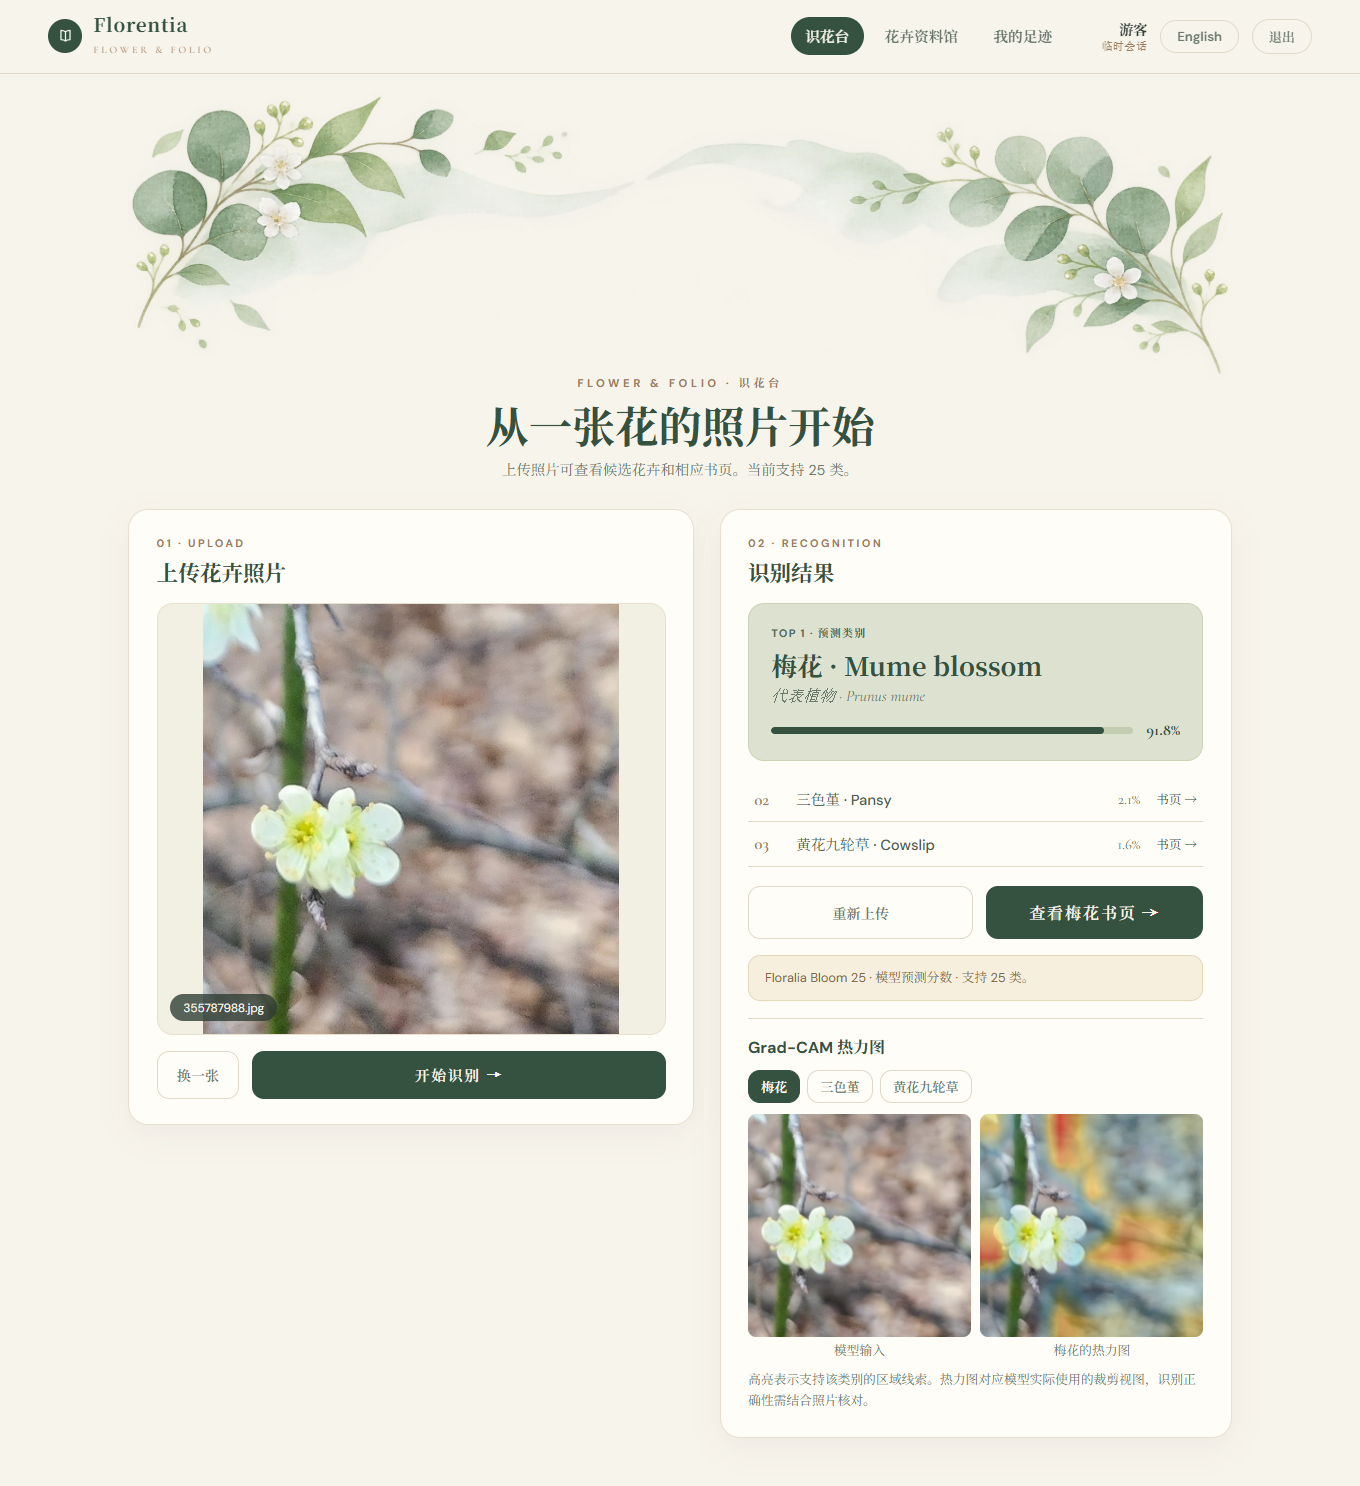
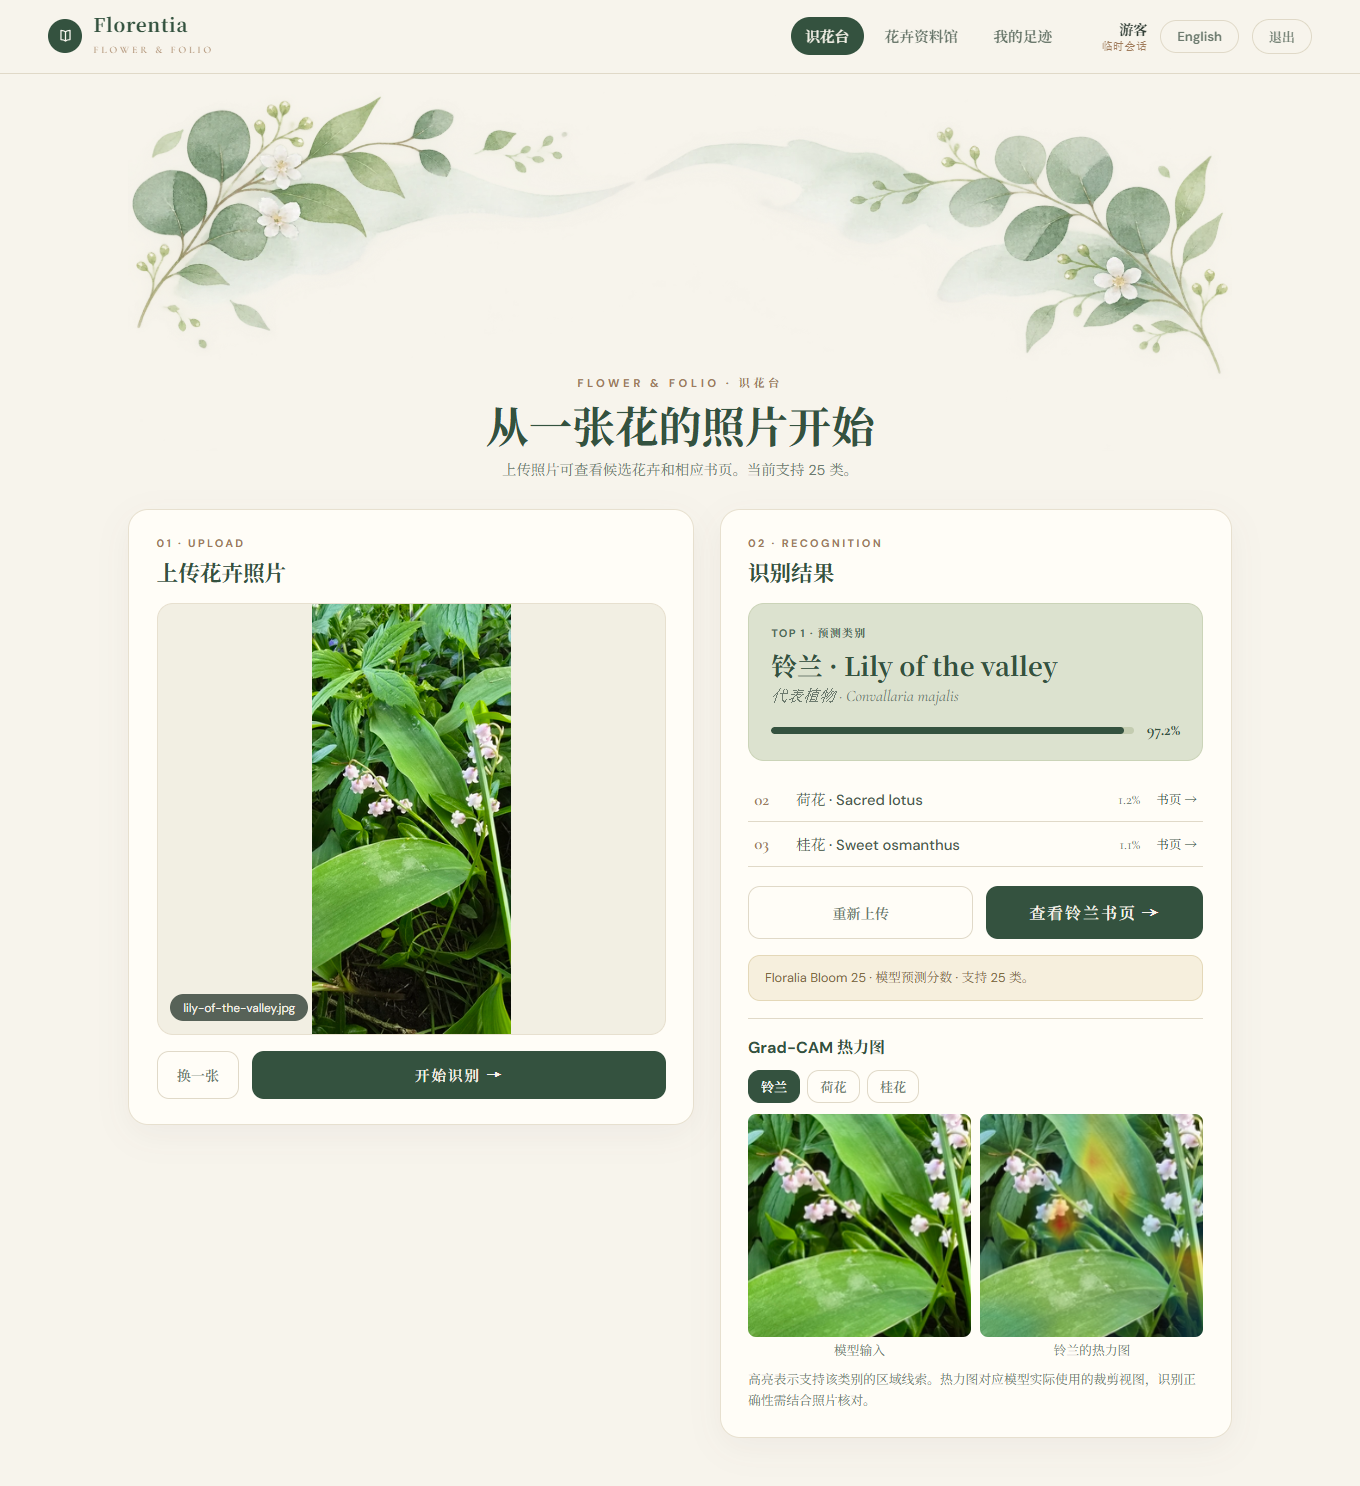
docs: showcase lily of the valley in the README

diff --git a/README.md b/README.md
@@ -53,13 +53,13 @@ Rather than ending with a classification label, Floralia aims to invite further 
 
 ## 实机截图 · Screenshots
 
-**从一张照片到三个候选。** 本机运行 Floralia Bloom 25，从留出集的一张梅花实拍图得到首选「梅花」，预测分数为 91.8%。图中也可看到模型实际使用的裁剪和所选类别的 Grad-CAM。[实拍图 iNaturalist 观测记录](https://www.inaturalist.org/observations/201540541) · [照片 CC0](https://creativecommons.org/publicdomain/zero/1.0/)
+**从一张铃兰照片到三个候选。** 本机运行 Floralia Bloom 25，首选为「铃兰」，预测分数为 97.2%。图中可看到模型的输入裁剪和针对铃兰生成的 Grad-CAM。照片由 Troi Perkins 拍摄，截图展示了原照及模型裁剪后的视图。[iNaturalist 观测记录](https://www.inaturalist.org/observations/367568082) · [照片许可 CC BY 4.0](https://creativecommons.org/licenses/by/4.0/)
 
-![Floralia Bloom 25 本机实拍识别、前三候选及 Grad-CAM](assets/readme/recognition.png)
+![Floralia Bloom 25 识别铃兰照片后的前三候选和 Grad-CAM](assets/readme/recognition.png)
 
-**从候选翻到书页。** 梅花页开头有一句花语，下方可读林逋的宋诗和中国用梅果调味的用物史。
+**从候选翻到书页。** 点「查看铃兰书页」，可以读到花语「愿幸福归来」，并核对向下垂的小铃形花等辨识特征。
 
-![梅花书页里的一句花语、植物档案、宋诗和青梅用物史](assets/readme/plum-folio.png)
+![铃兰书页的一句花语和植物档案](assets/readme/lily-of-the-valley-folio.png)
 
 ### 当前开发状态（2026-11）
 
@@ -107,7 +107,7 @@ Scientific names, flowering periods and other botanical details are subject to f
 
 ### 📜 Flowers in Literature · 花与文学
 
-书页的阅读栏收录中国和西方的文学典故与用物史。读者可以在梅花页读宋诗与青梅的饮食史，也可以在蓝铃花页读英国林地传说与旧书装订的历史。条目附出处、定位与相关植物部位。[资料收录裁定](docs/knowledge.md#资料收录裁定)
+书页的阅读栏收录中国和西方的文学典故与用物史。读者可以在蓝铃花页读英国林地传说与旧书装订的历史，在桂花页读宋词与桂花为茶和糖果添香的记载。条目附出处、定位与相关植物部位。[资料收录裁定](docs/knowledge.md#资料收录裁定)
 
 ### 📚 Personal Library · 我的花之书页
 
@@ -231,7 +231,7 @@ A backend and secure account system will be required before production deploymen
 | 同一批 Oxford 原图 | Bloom 25 | 323/340（95.0%） | 336/340（98.8%） |
 | iNaturalist 留出集，新增 8 类 111 张 | Bloom 25 | 90/111（81.1%） | 105/111（94.6%） |
 
-**本机复核。** 上传两张留出集梅花照片，样本一的首选为梅花（91.8%），并走通 Top-3、Grad-CAM 和书页跳转。样本二的首选是牡丹（34.6%），梅花排第二（26.6%），界面显示低分提示。梅花留出集总共 8 张，首选正确 4 张。Grad-CAM 对应模型实际看到的 224 × 224 裁剪区域，便于核对它对指定候选使用的图像线索。[样本一](https://www.inaturalist.org/observations/201540541) · [样本二](https://www.inaturalist.org/observations/19411279) · [逐类结果](docs/bloom25.md)
+**本机复核。** 另用 6 张 iNaturalist 铃兰照片复核，铃兰排第一 4 张，进入前三 5 张。截图使用的样本排第一（97.2%），走通了 Top-3、Grad-CAM 和书页跳转。另一张样本的第一候选是牡丹（89.1%），铃兰未进入前三。Grad-CAM 对应模型实际看到的 224 × 224 裁剪区域，便于核对它对指定候选使用的图像线索。[截图样本](https://www.inaturalist.org/observations/367568082) · [错例](https://www.inaturalist.org/observations/370312433) · [正式测试逐类结果](docs/bloom25.md)
 
 ### 参考论文与用途
 
